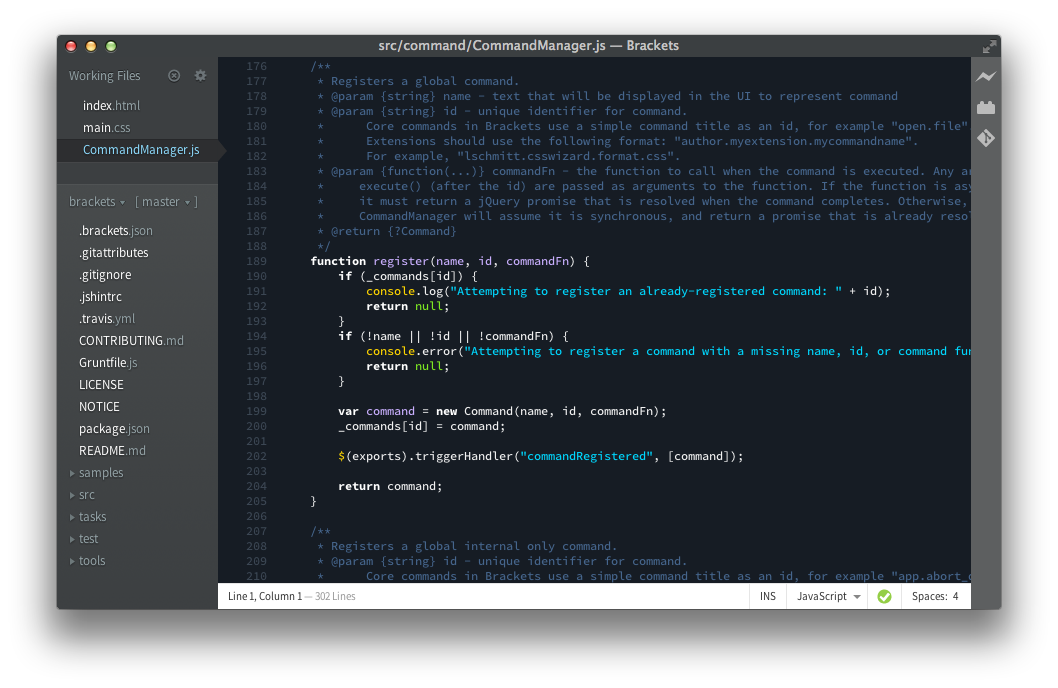
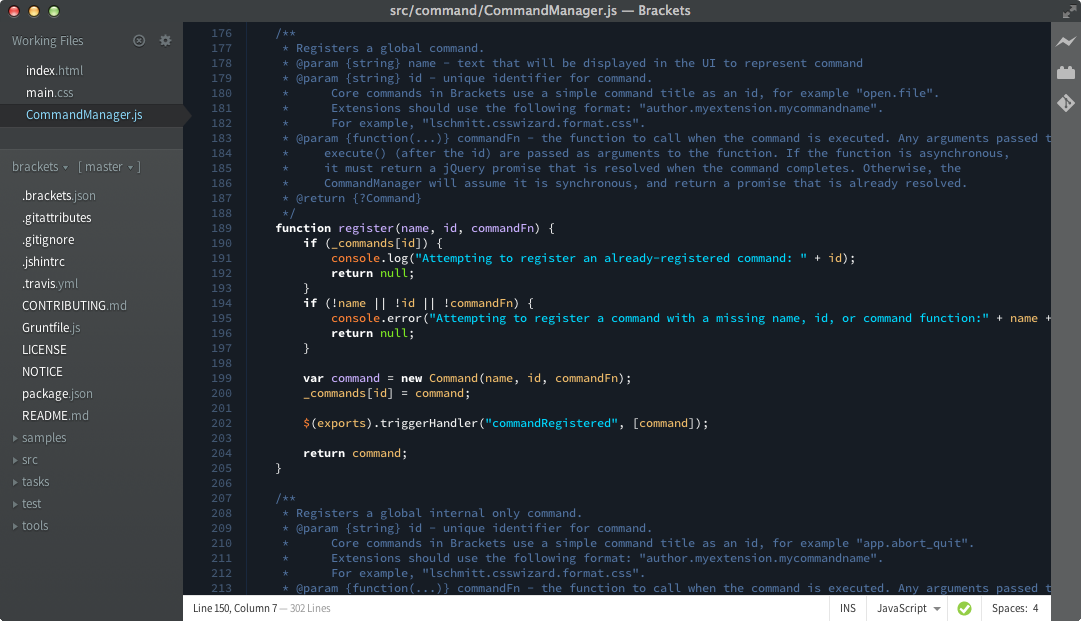
Update.

diff --git a/photonracer.css b/photonracer.css
@@ -6,7 +6,7 @@ span.cm-def			{ color: #cab0ff; }
 span.cm-header      { color: #cab0ff; }
 span.cm-qualifier	{ color: #cab0ff; }
 
-span.cm-variable	{ color: #ff7537; }
+span.cm-variable	{ color: #ff8336; }
 
 span.cm-variable-2	{ color: #efbc6b; }
 span.cm-variable-3	{ color: #efbc6b; }
@@ -25,7 +25,7 @@ span.cm-meta		{ color: #f2f2f2; }
 span.cm-operator	{ color: #f2f2f2; }
 span.cm-property	{ color: #f2f2f2; } /* property after string */
 
-span.cm-comment		{ color: #46668d; }
+span.cm-comment		{ color: #51729f; }
 span.cm-error		{ color: #ff64c1; }
 span.cm-keyword		{ color: #ffffff; font-weight: 700; }
 
